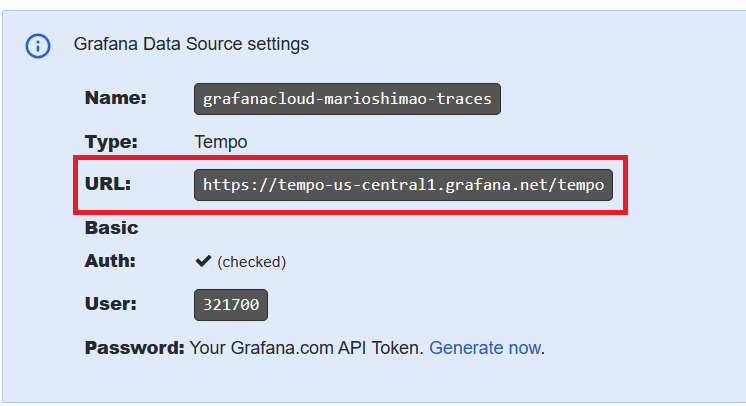
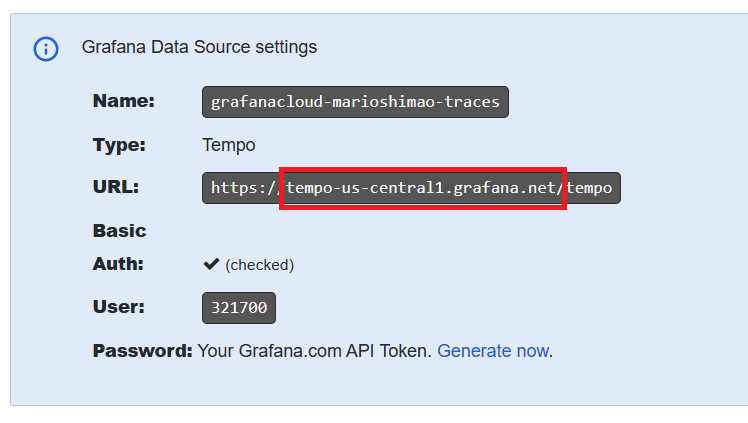
correções

diff --git a/docs/03-atividade.md b/docs/03-atividade.md
@@ -9,7 +9,7 @@ Clicar na opção "Send Traces" do Tempo.
 
 ![Tempo](images/Tempo.png)
 
-Copiar a url do Tempo e colar na tag {Tempo endpoint} do otlp no arquivo collector.yaml.
+Copiar a url do Tempo (sem o https:// e sem /tempo), adicionar :433 no final e colar na tag {Tempo endpoint} do otlp no arquivo collector.yaml.
 
 ![urltempo](images/tempendpoint.png)
 

diff --git a/docs/04-atividade.md b/docs/04-atividade.md
@@ -9,7 +9,7 @@ Clicar na opção "Send Logs" do Loki.
 
 ![Loki](images/loki.png)
 
-Copiar a url do Loki e colar na tag {Loki url} do Loki no arquivo collector.yaml.
+Copiar a url do Loki (sem o https://) e colar na tag {Loki url} do Loki no arquivo collector.yaml.
 
 ![urlloki](images/lokiurl.png)
 

diff --git a/docs/05-atividade.md b/docs/05-atividade.md
@@ -1,4 +1,4 @@
-# Atividade 3
+# Atividade 5
 
 ### Executar a aplicação e visualizar as métricas no Grafana
 Vamos executar uma aplicação Java com a observabilidade configurada, essa aplicação foi implantada numa imagem docker.
